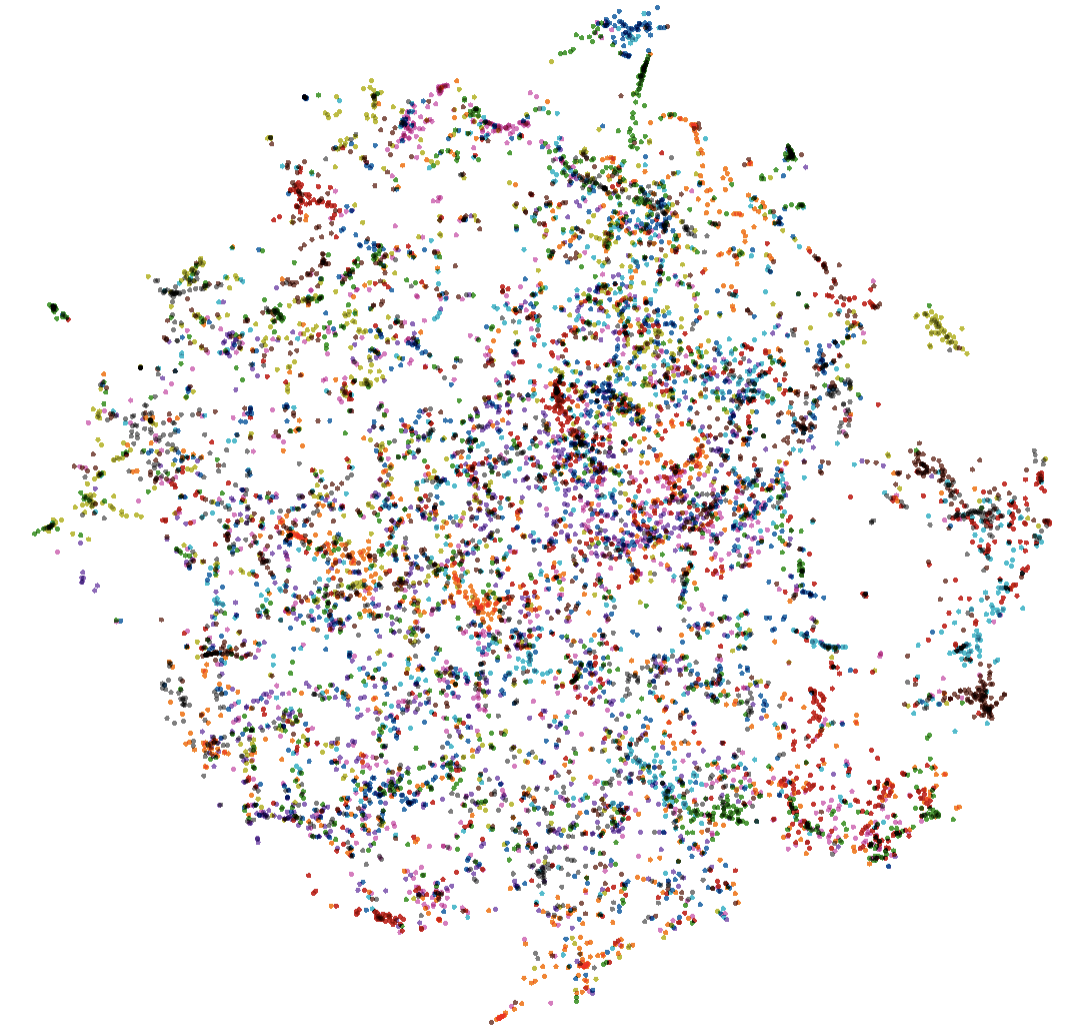
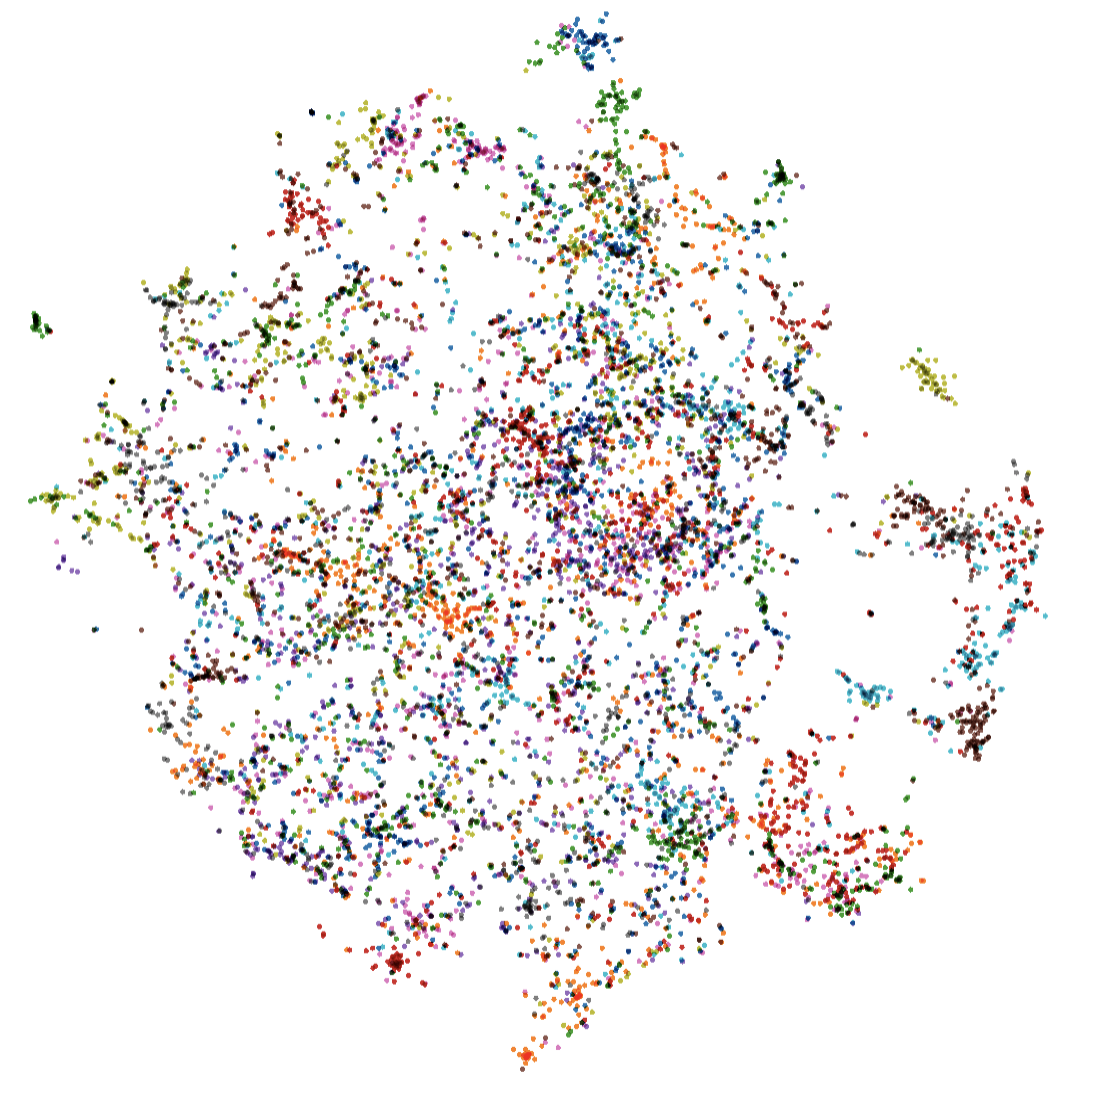
c

Changed region(s): [[0.0306, 0.0, 0.9796, 0.9922], [0.0612, 0.5581, 0.0918, 0.5891], [0.0306, 0.2791, 0.0612, 0.3101]]

diff --git a/byol.py b/byol.py
@@ -96,9 +96,14 @@ class BYOL(object):
 		args = self.args
 		if not os.path.exists(os.path.join(args.exp, 'logs')):
 			os.makedirs(os.path.join(args.exp, 'logs'))
-		if not os.path.exists(os.path.join(args.exp, 'runs')):
-			os.makedirs(os.path.join(args.exp, 'runs'))
-		self.writer = SummaryWriter(logdir=os.path.join(self.args.exp, 'runs'))
+		if self.args.embedding:
+			if not os.path.exists(os.path.join(args.exp, 'runs_'+self.args.embedding_layer)):
+				os.makedirs(os.path.join(args.exp, 'runs_'+self.args.embedding_layer))
+			self.writer = SummaryWriter(logdir=os.path.join(self.args.exp, 'runs_'+self.args.embedding_layer))
+		else:
+			if not os.path.exists(os.path.join(args.exp, 'runs')):
+				os.makedirs(os.path.join(args.exp, 'runs'))
+			self.writer = SummaryWriter(logdir=os.path.join(self.args.exp, 'runs'))
 		self.logger = getLogger(args.exp)
 
 	def get_dataloader(self):
@@ -278,7 +283,10 @@ class BYOL(object):
 	@torch.no_grad()
 	def inference(self):
 		self.network.eval()
-		points = torch.zeros(len(self.val_dataset), 256).to(self.device).detach()
+		if self.args.embedding_layer == 'fc':
+			points = torch.zeros(len(self.val_dataset), 256).to(self.device).detach()
+		elif self.args.embedding_layer == 'lastconv':
+			points = torch.zeros(len(self.val_dataset), 512).to(self.device).detach()
 		labels = []
 		pointer = 0
 		pbar = tqdm(self.val_loader)

diff --git a/img/resize_sqaure.py b/img/resize_sqaure.py
@@ -1,0 +1,14 @@
+import os
+import cv2
+import argparse
+
+def max(a,b):return a if a>b else b
+parser = argparse.ArgumentParser()
+parser.add_argument('source', default='', type=str)
+
+args = parser.parse_args()
+
+img = cv2.imread(args.source)
+h, w = img.shape[0], img.shape[1]
+img = cv2.resize(img, (max(h, w), max(h, w)))
+cv2.imwrite(args.source, img)

diff --git a/README.md b/README.md
@@ -50,7 +50,10 @@ The T-SNE visualization of features from fc layer.
 
 ##### ResNet18 (aug+)
 ---------------------
-<div align=center><img src="img/EmbeddingBYOLR18_augplus.png" width = "300" alt="BYOL loss curve" align=center /></div>
+<div align=center>
+<div align=center, style="display:inline-block;width:45%"><img src="img/EmbeddingBYOLR18_augplus.png" width = 100% height=100% alt="BYOL loss curve" align=center /> FC Embedding</div>
+<div align=center, style="display:inline-block;width:45%"><img src="img/EmbeddingLASTCONV_BYOLR18_augplus.png" width = 100% height=100% alt="BYOL loss curve" align=center /> CONV Embedding</div>
+</div>
 
 
 
